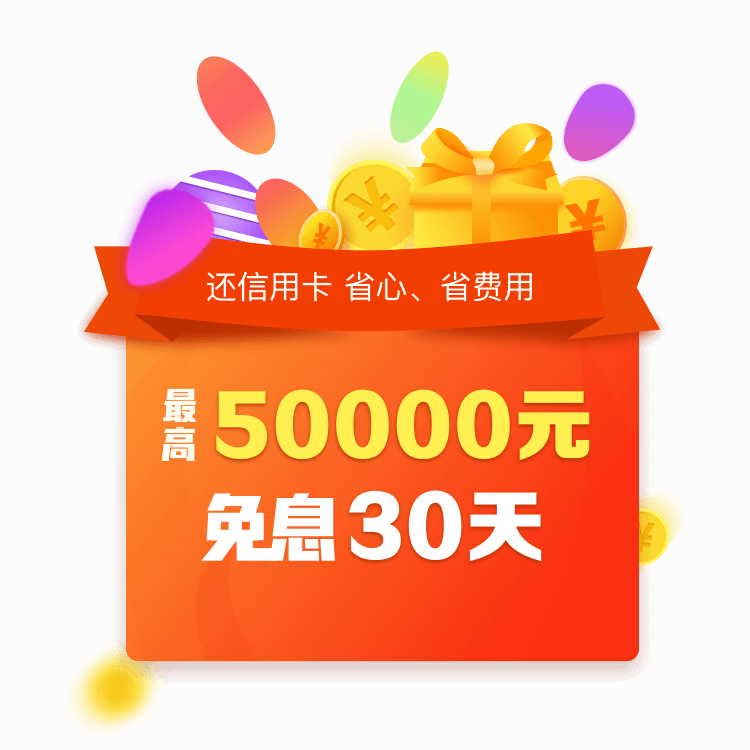
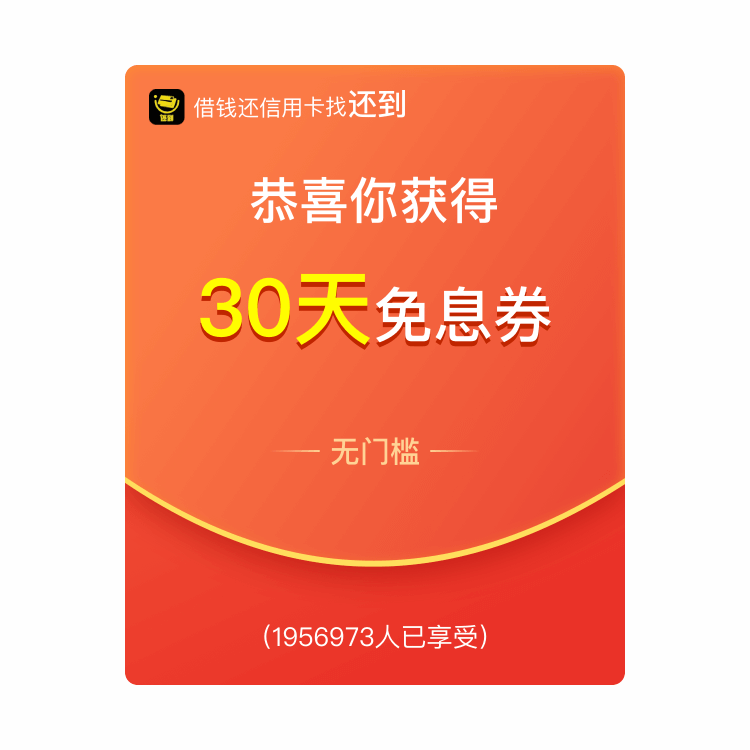
==

diff --git a/src/pages/home/home_page/index.js b/src/pages/home/home_page/index.js
@@ -4,6 +4,7 @@ import dayjs from 'dayjs';
 import { store } from 'utils/store';
 import { isWXOpen, getDeviceType, getNextStr, isCanLoan, getMoxieData, dateDiffer } from 'utils';
 import qs from 'qs';
+import { getH5Channel } from 'utils/common';
 import { buriedPointEvent } from 'utils/analytins';
 import { home, mine, activity, loan_fenqi } from 'utils/analytinsType';
 import fetch from 'sx-fetch';
@@ -47,7 +48,8 @@ const API = {
 	cashShowSwitch: '/my/switchFlag/cashShowSwitchFlag', // 是否渲染现金分期
 	checkKoubei: '/activeConfig/userCheck', //是否参与口碑活动,及新老用户区分
 	couponTest: '/activeConfig/couponTest', //签约测试
-	mxCheckJoin: '/activeConfig/checkJoin' // 免息活动检查是否参与
+	mxCheckJoin: '/activeConfig/checkJoin', // 免息活动检查是否参与
+	couponNotify: '/activeConfig/couponNotify' // 免息活动检查是否参与
 };
 let token = '';
 let tokenFromStorage = '';
@@ -798,7 +800,7 @@ export default class home_page extends PureComponent {
 			this.setState(
 				{
 					isShowActivityModal: true,
-					modalType: 'mianxi'
+					modalType: 'mianxi7'
 				},
 				() => {
 					store.setShowActivityModal(true);
@@ -897,6 +899,7 @@ export default class home_page extends PureComponent {
 	// 关闭活动弹窗
 	closeActivityModal = (type) => {
 		this.setState({
+			modalBtnFlag: false,
 			isShowActivityModal: !this.state.isShowActivityModal
 		});
 
@@ -929,6 +932,27 @@ export default class home_page extends PureComponent {
 			case 'mianxi':
 				buriedPointEvent(activity.mianxiModalBtnClick);
 				this.props.history.push('/activity/mianxi_page?entry=home_alert');
+				break;
+			case 'mianxi7':
+				buriedPointEvent(activity.mianxi726ModalBtnClick, {
+					dayType: '7',
+					H5Channel: getH5Channel()
+				});
+				this.handleSmartClick();
+				break;
+			case 'mianxi15':
+				buriedPointEvent(activity.mianxi726ModalBtnClick, {
+					dayType: '15',
+					H5Channel: getH5Channel()
+				});
+				this.handleSmartClick();
+				break;
+			case 'mianxi30':
+				buriedPointEvent(activity.mianxi726ModalBtnClick, {
+					dayType: '30',
+					H5Channel: getH5Channel()
+				});
+				this.handleSmartClick();
 				break;
 			default:
 				break;

diff --git a/src/components/ActivityModal/index.js b/src/components/ActivityModal/index.js
@@ -12,6 +12,10 @@ import yhq50 from './img/yhq50.png';
 import yhq_btn from './img/yhq_btn.png';
 import mianxi from './img/mianxi.png';
 import mianxi_btn from './img/mianxi_btn.png';
+import syx_btn from './img/syx_btn.png';
+import mianxi7 from './img/mianxi7.png';
+import mianxi15 from './img/mianxi15.png';
+import mianxi30 from './img/mianxi30.png';
 
 class ActivityModal extends React.Component {
 	constructor(props) {
@@ -42,6 +46,9 @@ class ActivityModal extends React.Component {
 							{modalType === 'yhq7' ? <img src={yhq7} /> : null}
 							{modalType === 'yhq50' ? <img src={yhq50} /> : null}
 							{modalType === 'mianxi' ? <img src={mianxi} /> : null}
+							{modalType === 'mianxi7' ? <img src={mianxi7} /> : null}
+							{modalType === 'mianxi15' ? <img src={mianxi15} /> : null}
+							{modalType === 'mianxi30' ? <img src={mianxi30} /> : null}
 							{/* 按钮 */}
 							{modalType === 'yhq50' || modalType === 'yhq7' ? (
 								<img
@@ -87,6 +94,15 @@ class ActivityModal extends React.Component {
 									src={mianxi_btn}
 									onClick={() => {
 										activityModalBtn('mianxi');
+									}}
+								/>
+							) : null}
+							{modalType === 'mianxi7' || modalType === 'mianxi30' || modalType === 'mianxi15' ? (
+								<img
+									className={styles.syx_btn}
+									src={syx_btn}
+									onClick={() => {
+										activityModalBtn(modalType);
 									}}
 								/>
 							) : null}

diff --git a/src/utils/analytinsType.js b/src/utils/analytinsType.js
@@ -194,7 +194,8 @@ const activity = {
 	mianxi715OldBtn: `${prefix}_ACTIVITY_MIANXI_715_OLD_GET_BTN`, // 七月活动 复贷用户领取按钮
 	mianxi715NewPrizeBtn: `${prefix}_ACTIVITY_MIANXI_715_NEW_PRIZE_BTN`, // 七月活动 首贷用户奖品弹框按钮点击
 	mianxi715OldPrizeBtn: `${prefix}_ACTIVITY_MIANXI_715_OLD_PRIZE_BTN`, // 七月活动 复贷用户奖品弹框按钮点击
-	mianxiModalBtnClick: `${prefix}_ACTIVITY_MIANXI_715_MODAL_BTN` // 七月活动 首页弹窗按钮点击
+	mianxiModalBtnClick: `${prefix}_ACTIVITY_MIANXI_715_MODAL_BTN`, // 七月活动 首页弹窗按钮点击
+	mianxi726ModalBtnClick: `${prefix}_ACTIVITY_MIANXI_726_MODAL_BTN` // 七月26活动 首页弹窗按钮点击
 };
 
 const moxie_bank_list = {

diff --git a/src/components/ActivityModal/index.scss b/src/components/ActivityModal/index.scss
@@ -66,6 +66,14 @@
 				width: 160px;
 				height: 166px;
 			}
+			.syx_btn {
+				position: absolute;
+				bottom: 140px;
+				left: 50%;
+				transform: translateX(-50%);
+				width: 270px;
+				height: 110px;
+			}
 		}
 		.closeBtn {
 			text-align: center;
